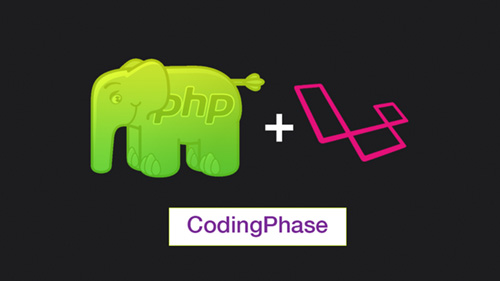
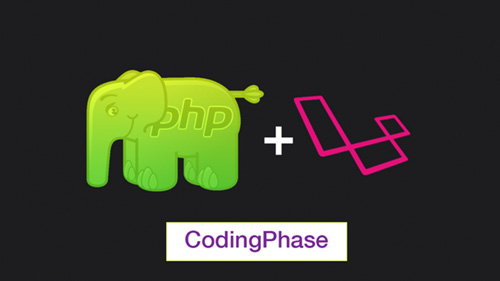
fixing photos

Changed region(s): [[0.15, 0.1993, 0.54, 0.6833], [0.33, 0.7117, 0.72, 0.9395], [0.51, 0.2847, 0.84, 0.6263]]

diff --git a/src/sass/layout.scss b/src/sass/layout.scss
@@ -566,7 +566,7 @@ header {
     flex-direction: column;
     justify-content: center;
     align-items: center;
-    background: url('../../assets/nodegree.png');
+    background: url('../../assets/nodegree.webp');
     max-width: 800px;
     width: 100%;
     height: 300px;
@@ -576,6 +576,9 @@ header {
     -moz-box-shadow: 0 10px 38px 0 rgba(53, 167, 255, 0.67);
     box-shadow: 0 10px 38px 0 rgba(53, 167, 255, 0.67);
     margin-bottom: 200px;
+    &.no-webp {
+      background: url('../../assets/nodegree.png');
+    }
   }
 
   h2 {
